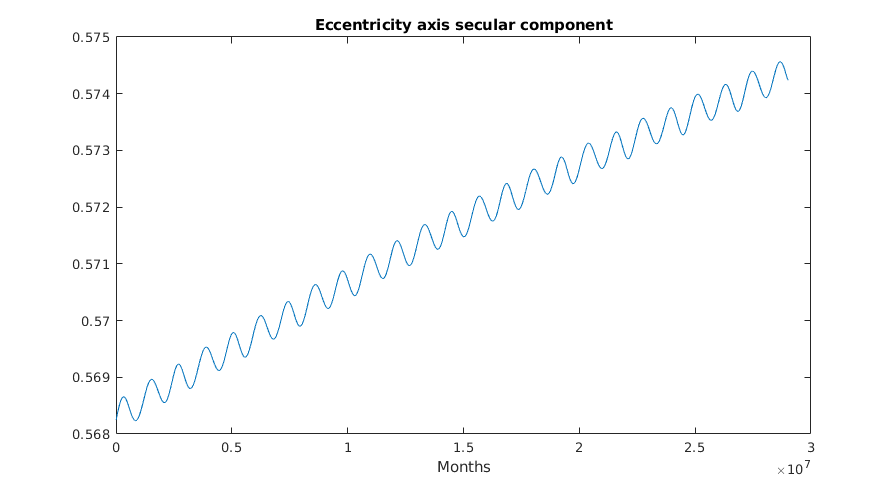
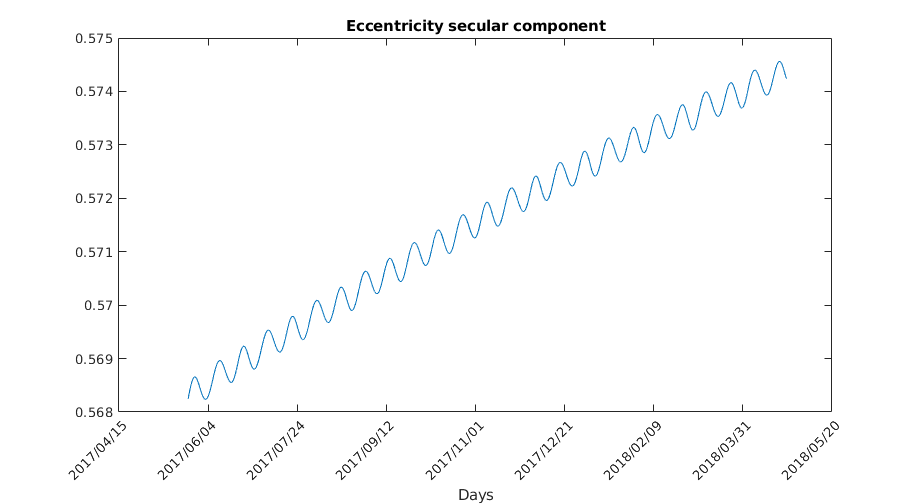
Last minute fixes

diff --git a/Assignment3.m b/Assignment3.m
@@ -110,9 +110,9 @@ OM_filt = filtfilt(b_f,a_f,kep_out_gauss(:,4));
 om_filt = filtfilt(b_f,a_f,kep_out_gauss(:,5));
 
 % Semimajor axis is a 'special guy...'
-f_c = 1e-6;
+%f_c = 1e-6;
 [b_f,a_f] = butter(2,f_c/(Fs/2));
-a_filt = filtfilt(b_f,a_f,kep_out_gauss(:,1)-a);
+a_filt = filtfilt(b_f,a_f,kep_out_gauss(2000:end,1));
 
 %% PLOTTING
 
@@ -236,27 +236,38 @@ xlabel('Frequency')
 
 % Secular Components
 figure(13)
-plot(t_out_gauss,e_filt)
-title('Eccentricity axis secular component')
-xlabel('Months')
+plot(t_plot_gauss(2000:end),a_filt)
+title('Semimajor axis secular component')
+xlabel('Days')
+ylabel('Km')
+datetick('x','20yy/mm/dd','keepticks','keeplimits')
+set(gca,'XTickLabelRotation',45)
 
 figure(14)
-plot(t_out_gauss,i_filt)
-title('Inclination secular component')
-xlabel('Months')
+plot(t_plot_gauss,e_filt)
+title('Eccentricity secular component')
+xlabel('Days')
+datetick('x','20yy/mm/dd','keepticks','keeplimits')
+set(gca,'XTickLabelRotation',45)
 
 figure(15)
-plot(t_out_gauss,OM_filt)
-title('Right ascension secular component')
-xlabel('Months')
+plot(t_plot_gauss,i_filt)
+title('Inclination secular component')
+xlabel('Days')
+datetick('x','20yy/mm/dd','keepticks','keeplimits')
+set(gca,'XTickLabelRotation',45)
 
 figure(16)
-plot(t_out_gauss,om_filt)
-title('Argument of perigee secular component')
-xlabel('Months')
+plot(t_plot_gauss,OM_filt)
+title('Right ascension secular component')
+xlabel('Days')
+datetick('x','20yy/mm/dd','keepticks','keeplimits')
+set(gca,'XTickLabelRotation',45)
 
 figure(17)
-plot(t_out_gauss,a_filt)
-title('Semimajor axis secular component')
-xlabel('Months')
-ylabel('Km')
+plot(t_plot_gauss,om_filt)
+title('Argument of perigee secular component')
+xlabel('Days')
+datetick('x','20yy/mm/dd','keepticks','keeplimits')
+set(gca,'XTickLabelRotation',45)
+
